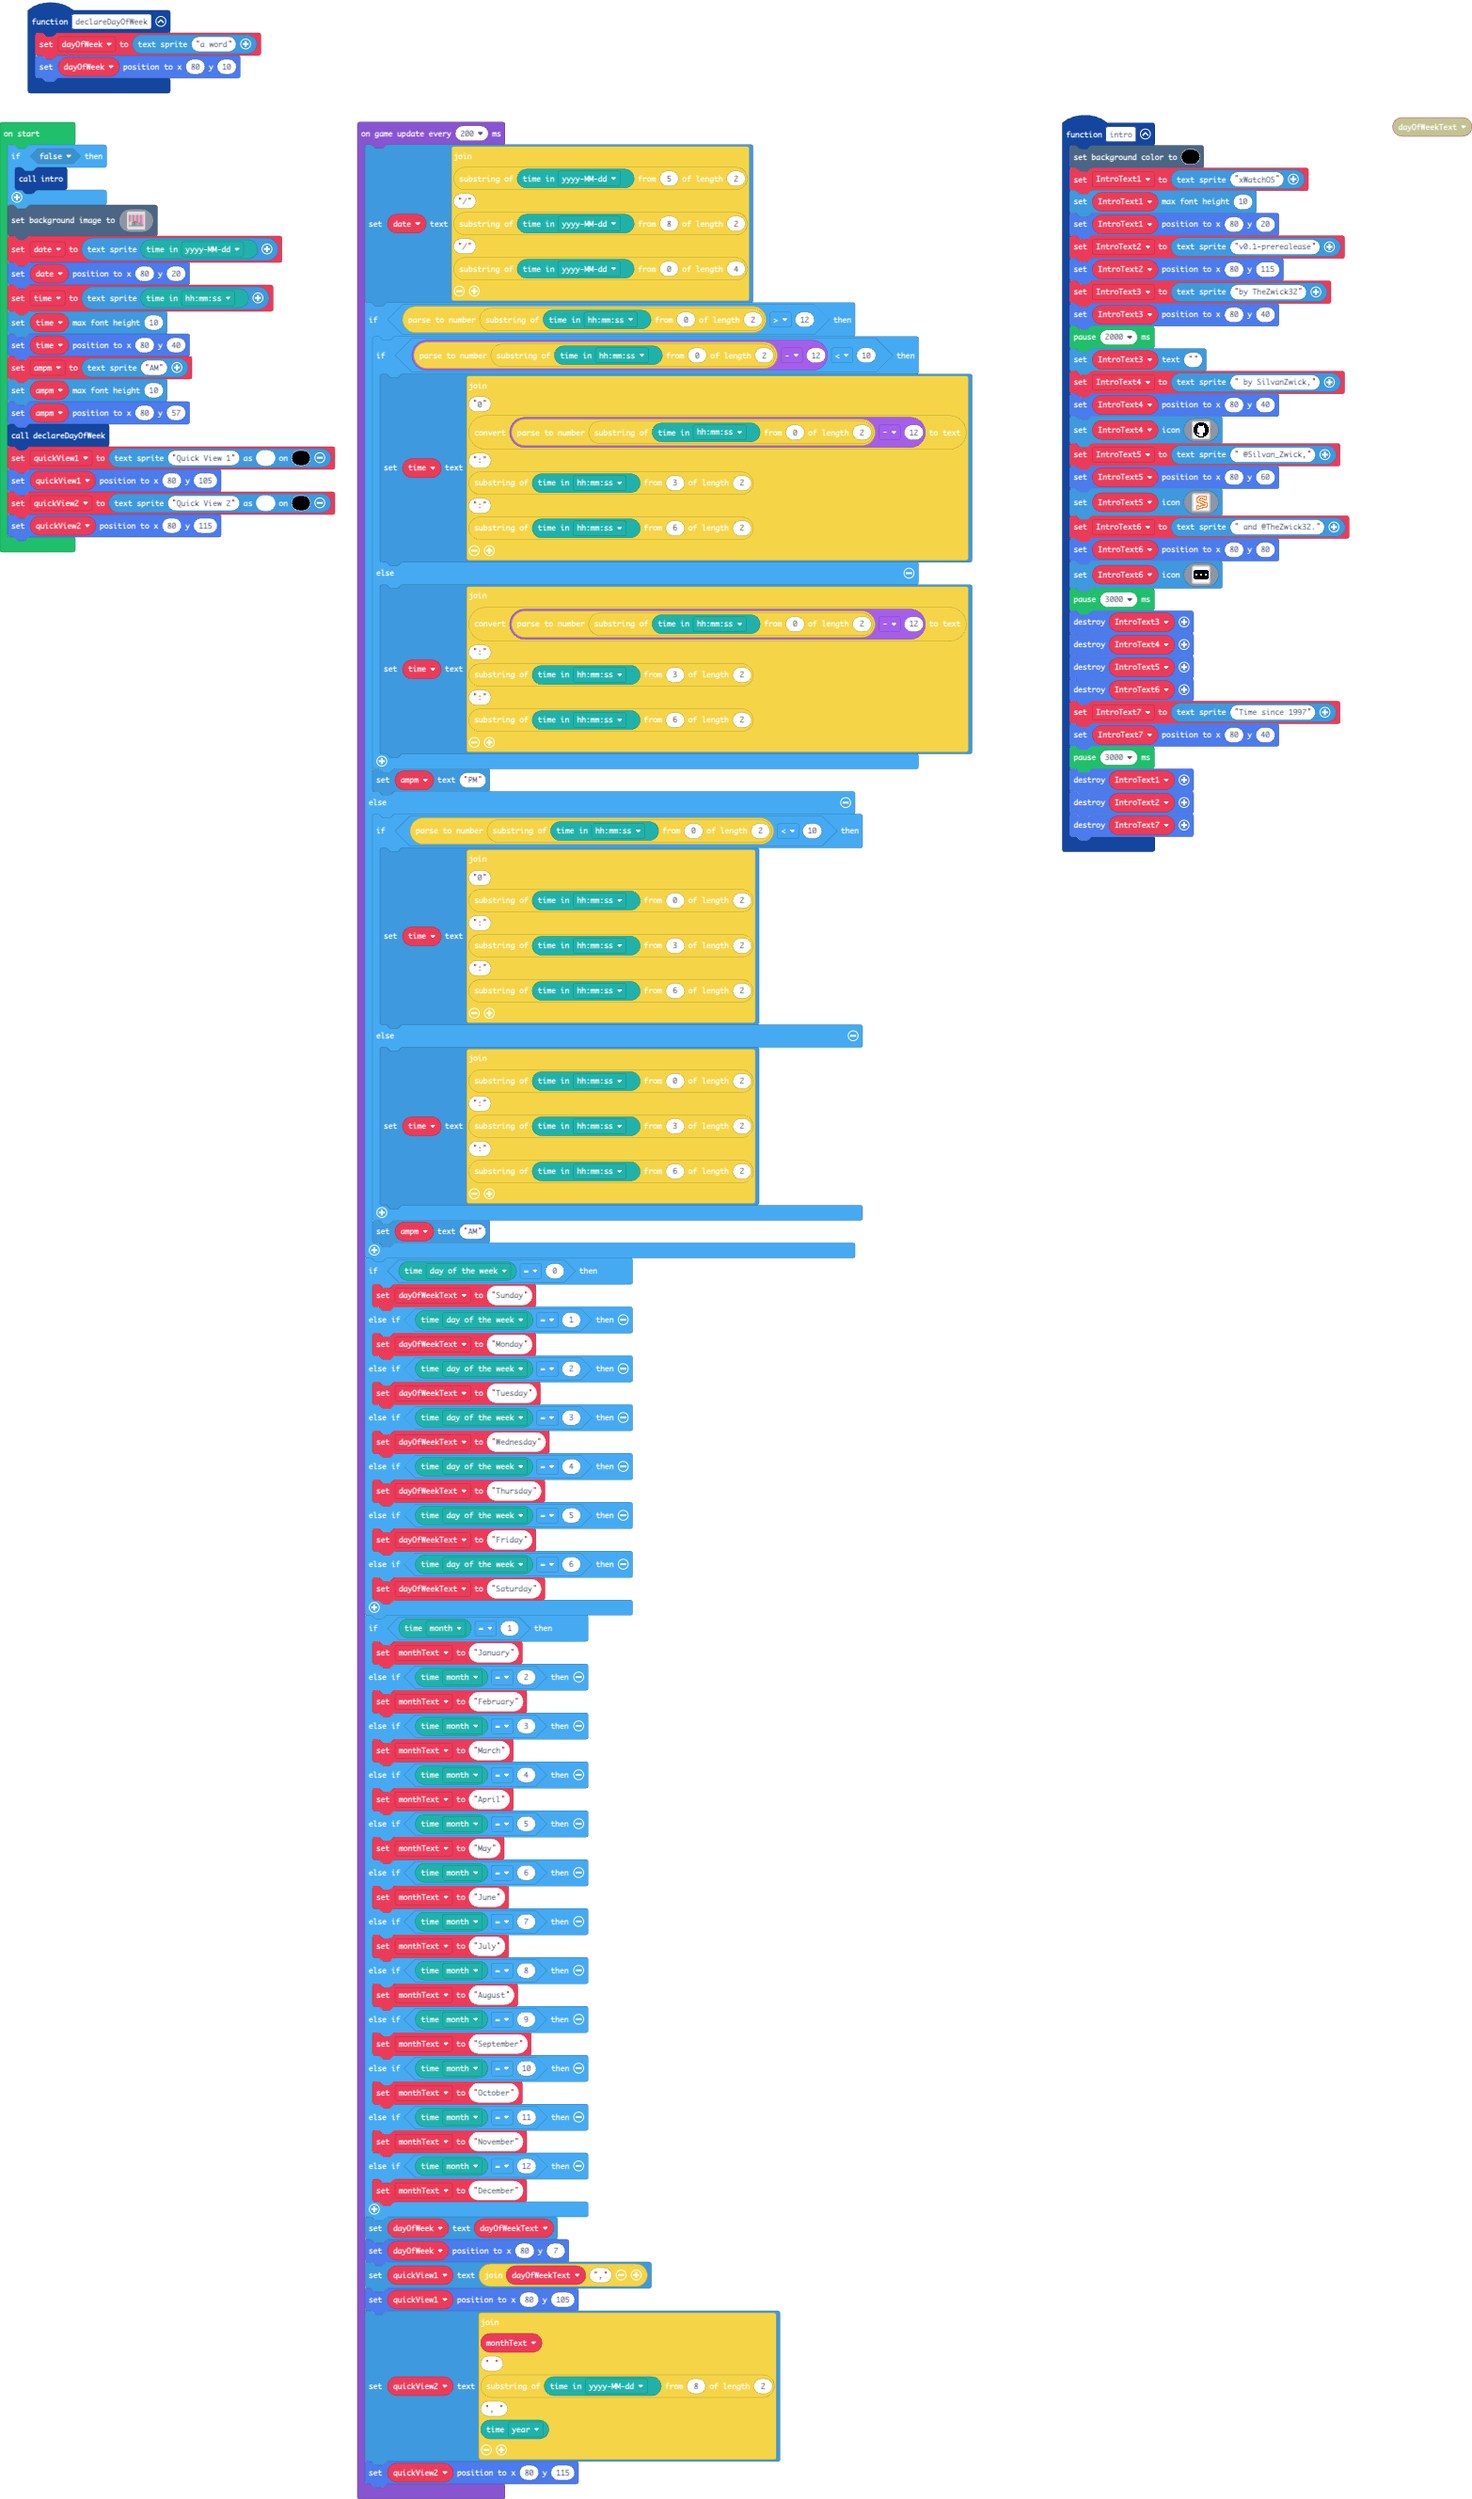
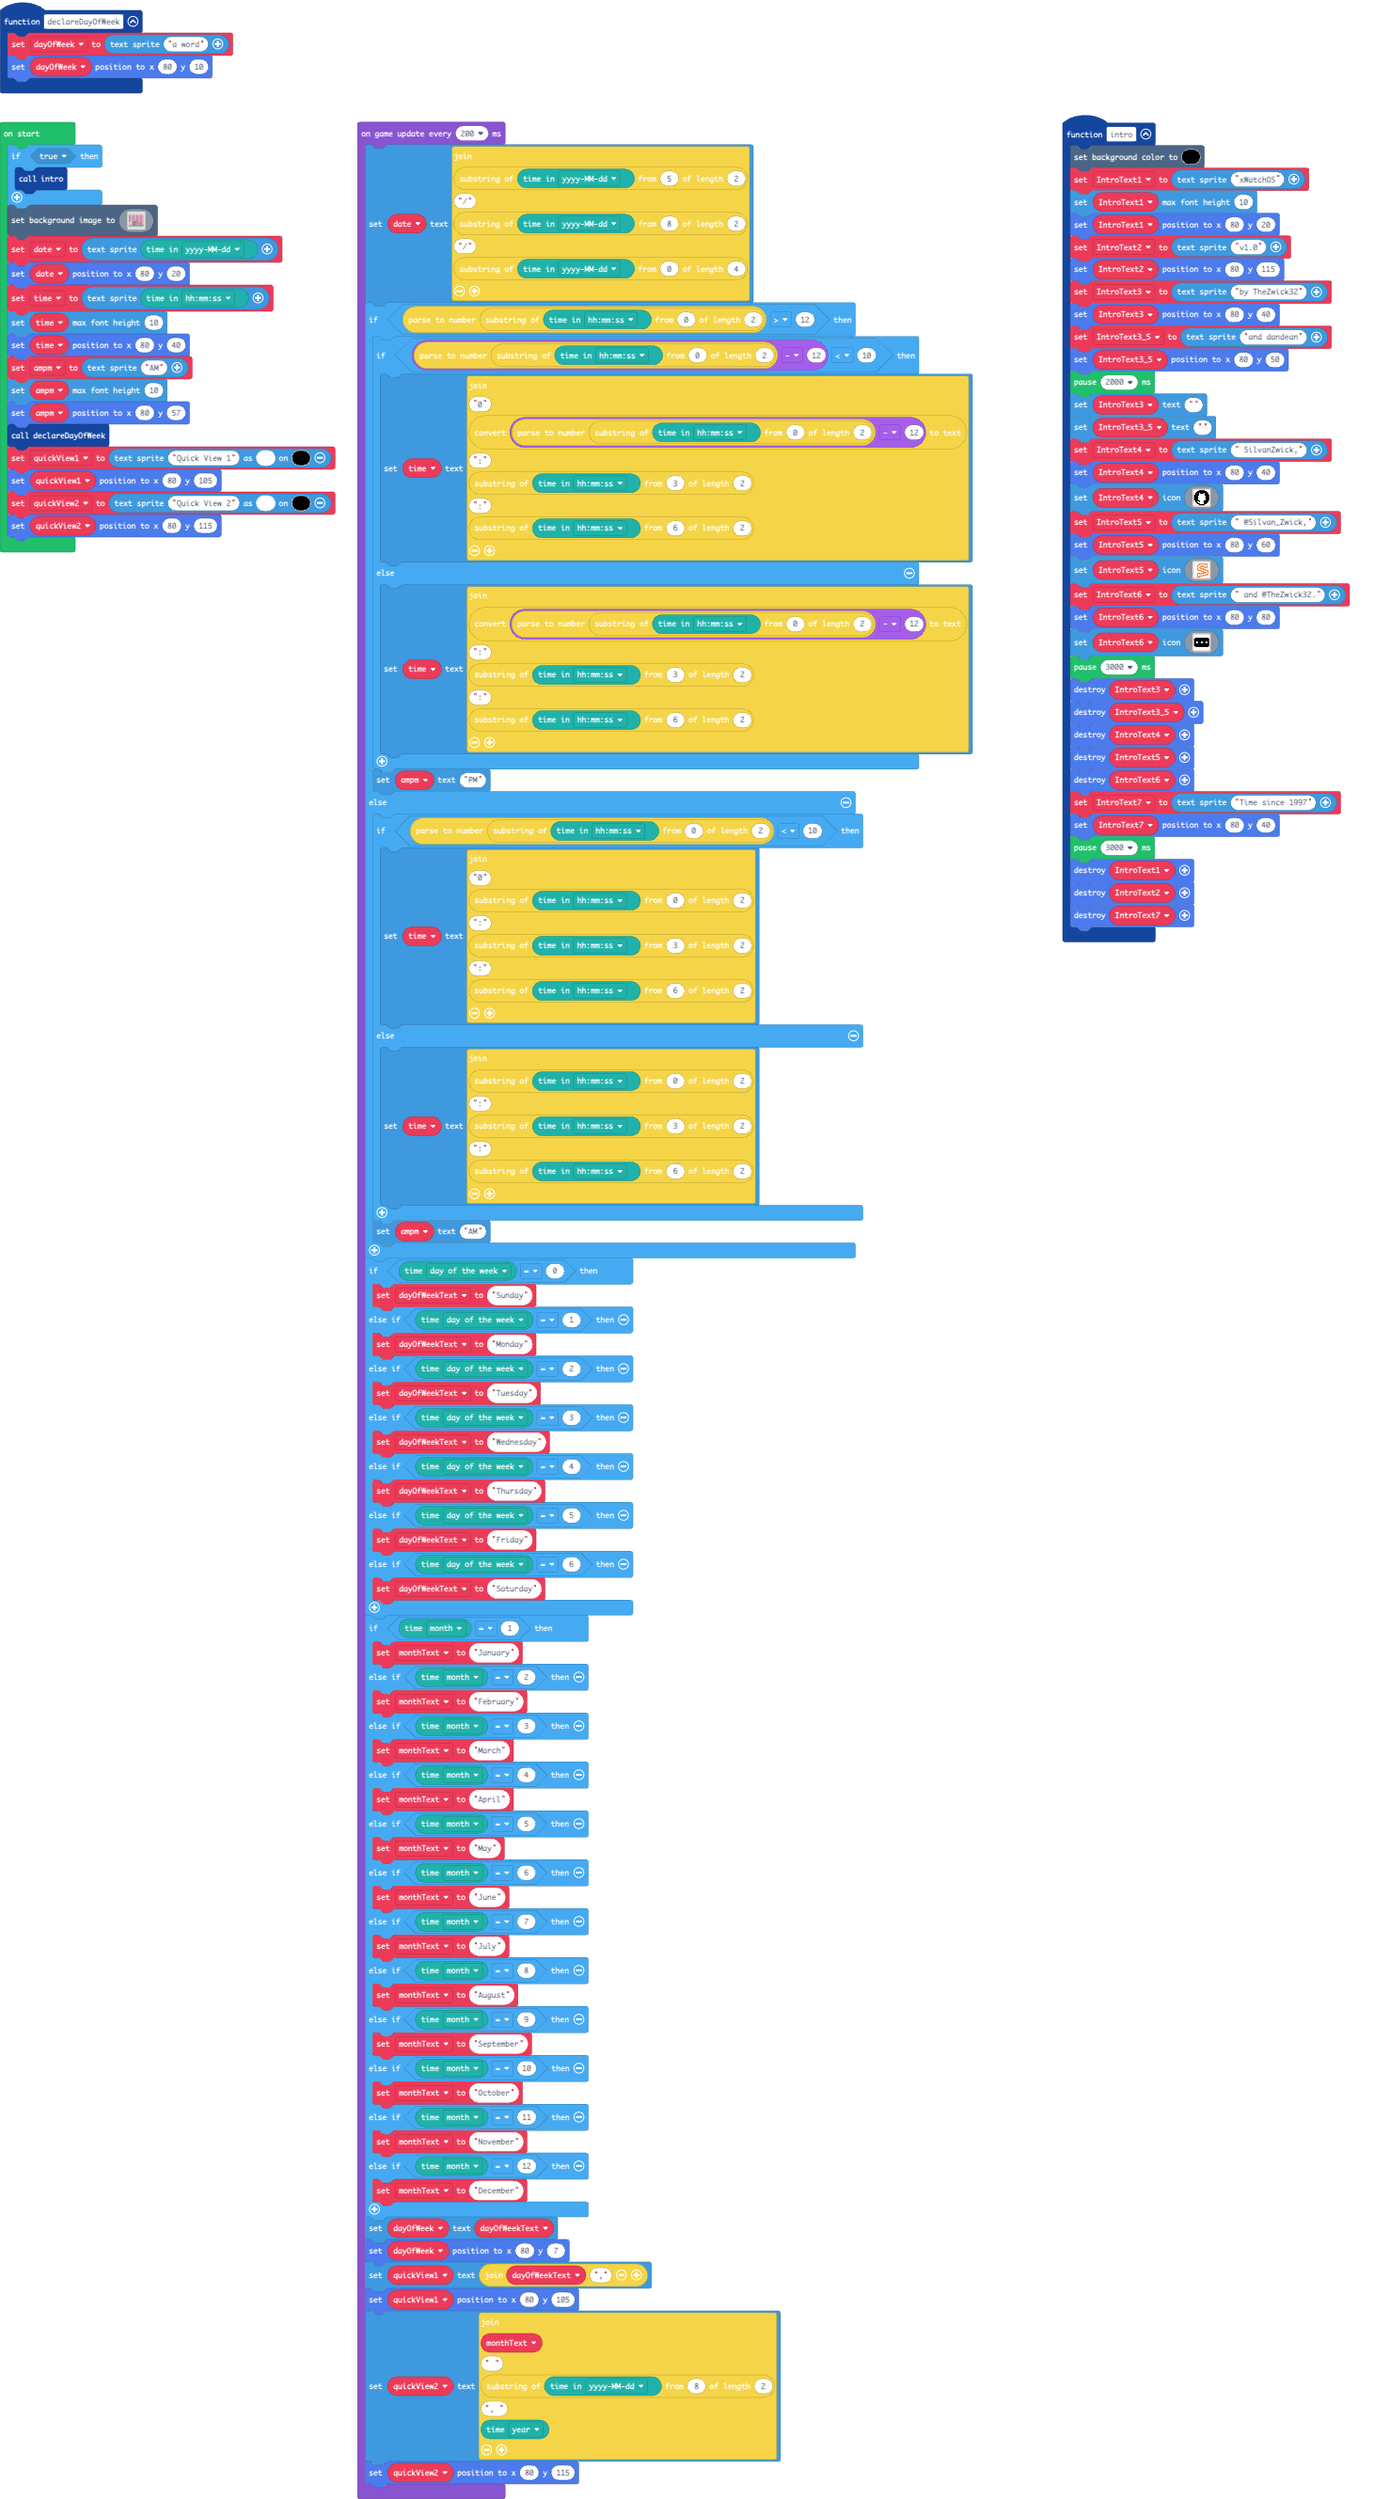
Enabled intro, added credit for Dan, and changed version text to v1.0 in preparation for release 1.0.

diff --git a/main.ts b/main.ts
@@ -7,13 +7,16 @@ function intro () {
     IntroText1 = textsprite.create("xWatchOS")
     IntroText1.setMaxFontHeight(10)
     IntroText1.setPosition(80, 20)
-    IntroText2 = textsprite.create("v0.1-prerealease")
+    IntroText2 = textsprite.create("v1.0")
     IntroText2.setPosition(80, 115)
     IntroText3 = textsprite.create("by TheZwick32")
     IntroText3.setPosition(80, 40)
+    IntroText3_5 = textsprite.create("and dandean")
+    IntroText3_5.setPosition(80, 50)
     pause(2000)
     IntroText3.setText("")
-    IntroText4 = textsprite.create(" by SilvanZwick,")
+    IntroText3_5.setText("")
+    IntroText4 = textsprite.create(" SilvanZwick,")
     IntroText4.setPosition(80, 40)
     IntroText4.setIcon(assets.image`github-logo-small-white`)
     IntroText5 = textsprite.create(" @Silvan_Zwick,")
@@ -24,6 +27,7 @@ function intro () {
     IntroText6.setIcon(assets.image`other-small-white`)
     pause(3000)
     IntroText3.destroy()
+    IntroText3_5.destroy()
     IntroText4.destroy()
     IntroText5.destroy()
     IntroText6.destroy()
@@ -40,11 +44,12 @@ let IntroText7: TextSprite = null
 let IntroText6: TextSprite = null
 let IntroText5: TextSprite = null
 let IntroText4: TextSprite = null
+let IntroText3_5: TextSprite = null
 let IntroText3: TextSprite = null
 let IntroText2: TextSprite = null
 let IntroText1: TextSprite = null
 let dayOfWeek: TextSprite = null
-if (false) {
+if (true) {
     intro()
 }
 scene.setBackgroundImage(assets.image`bg1`)
